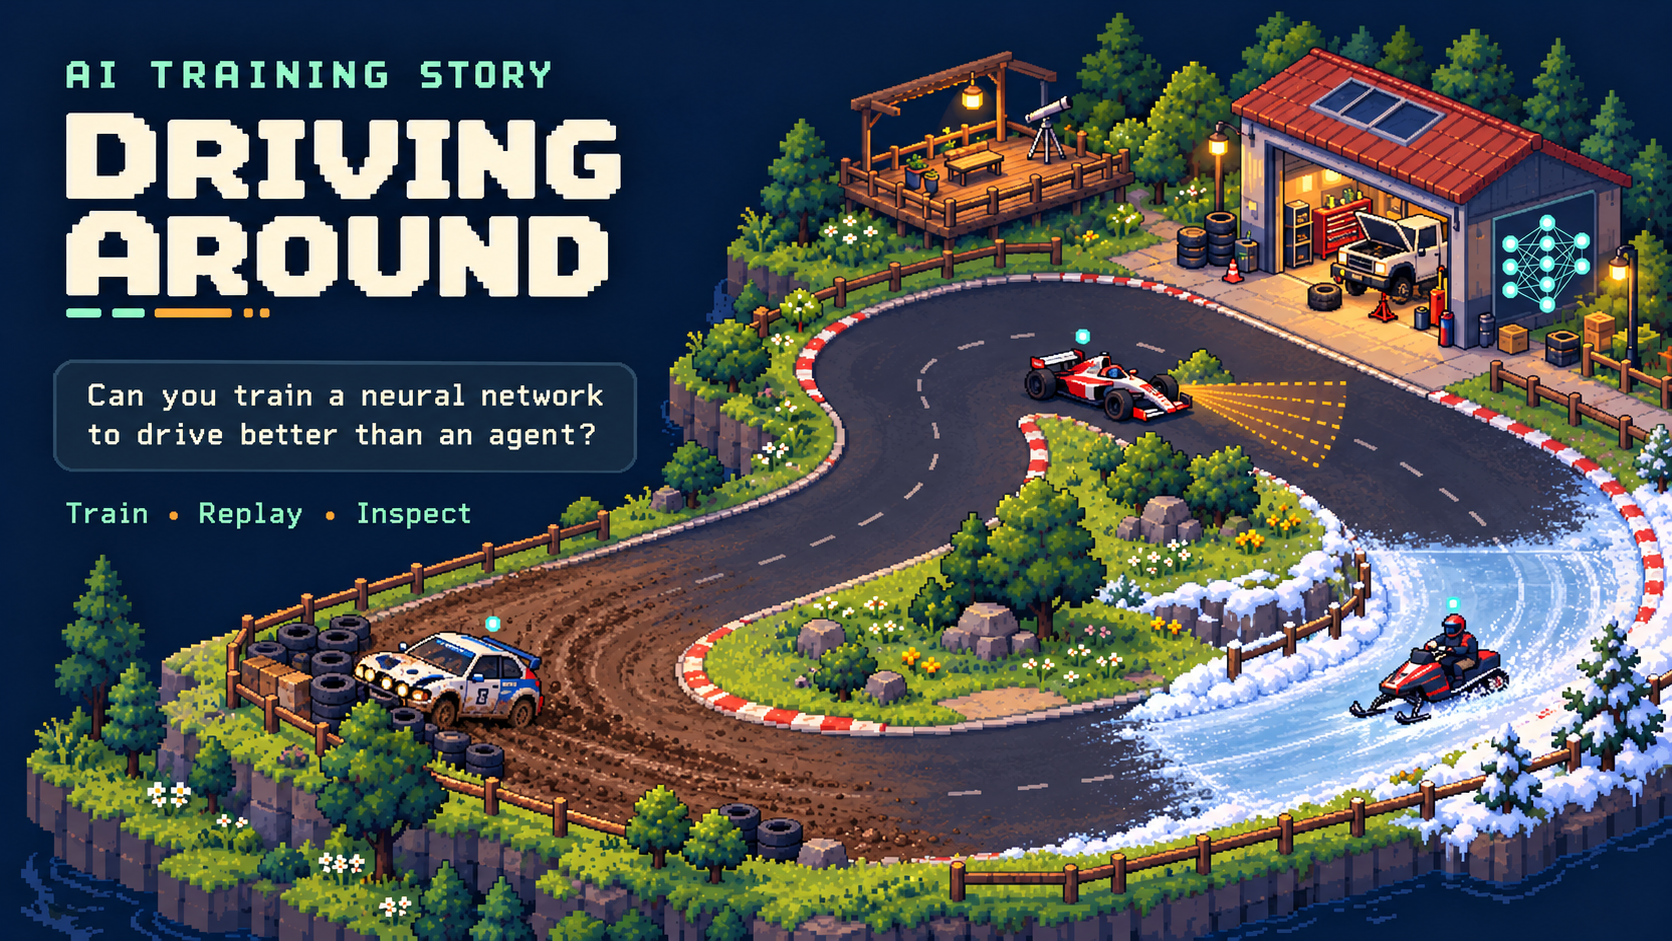
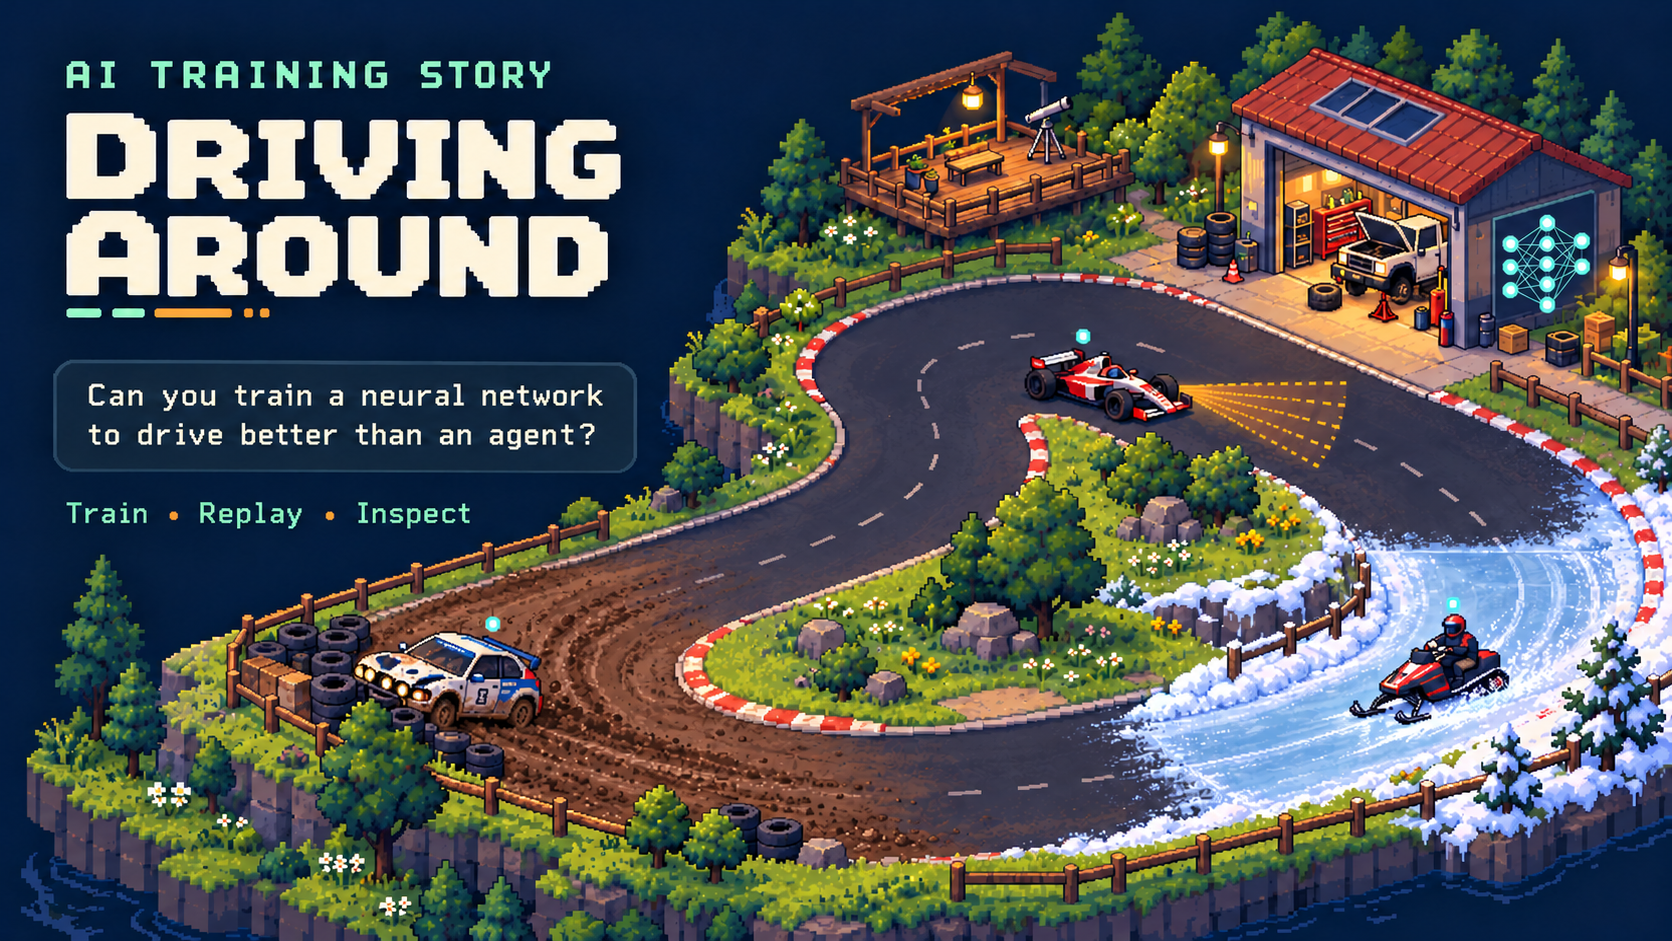
Clear the stray tree from the Driving Around road [skip ci]

diff --git a/docs/media/ASSETS.md b/docs/media/ASSETS.md
@@ -4,7 +4,7 @@ The current hero and thumbnail are AI-generated editorial concept art in the est
 
 | File | Dimensions | Bytes | Role |
 | --- | --- | --- | --- |
-| `driving-around-hero.png` | 1672 × 941 | 2,450,642 | Current README hero, including the open challenge question |
+| `driving-around-hero.png` | 1672 × 941 | 2,408,276 | Current README hero, including the open challenge question |
 | `driving-around-thumbnail.jpg` | 1774 × 887 | 599,843 | Current 2:1 sharing thumbnail |
 
 The thumbnail was exported from the generated PNG as JPEG without cropping or resizing and is below 1 MB. The generated PNG originals are retained. App/repository URLs, old README anchors and prior artwork URLs are preserved. The repository social-preview setting is unchanged. No ALD simulation, training or ZeroGPU run was used to make the artwork.
@@ -25,6 +25,17 @@ Replace the identical tiny hatchbacks with FOUR distinct vehicles distributed in
 The central track remains asphalt with clear ice and dirt side sections. Keep island visually coherent and avoid cluttering the type.
 Replace the emblem on the workshop outer wall with an unmistakable layered feed-forward neural network: 3 vertical layers of round mint nodes (3 input nodes, 4 hidden nodes, 2 output nodes), fine connections only BETWEEN adjacent layers. No connected perimeter or molecule/constellation shape.
 Keep text all perfectly readable and exact. Retain the established charming miniature pixel management-game feel. This is editorial concept art; no fake gameplay window, metrics, scores, trophies, lap records, platform logos, watermark or claims of performance.
+
+### Hero road-clearance correction
+
+The final hero removes the isolated tree from the asphalt beside the Formula car. The thumbnail is unchanged. This was a built-in image-generation edit using the full hero as the target and a user-supplied close-up only to locate the obstruction. Composition, text, four vehicles, grass-island trees and workshop were visually reviewed; small generative foliage/detail differences elsewhere mean this is not a pixel-identical masked edit.
+
+Use case: precise-object-edit.
+Input image 1 is the FULL EDIT TARGET: the complete 1672 × 941 AI Training Story: Driving Around hero.
+Input image 2 is ONLY a close-up locator reference showing the unwanted tree; do NOT output that crop. Return the complete full-size landscape hero with the same composition and dimensions as image 1.
+Make ONE localized correction: remove the single small isolated green tree/bush growing out of the DARK ASPHALT immediately beside the Formula car, above/right of its front wheel and just above the amber sensor fan. In the full image this obstruction is around x=1200, y=375; in the close-up it is the small green foliage behind the car's nose. Replace the entire tree with seamless matching dark road asphalt and its existing subtle pixel texture.
+Preserve the Formula car completely, including all wheels, nose, cockpit, its mint marker and amber sensor rays. Preserve the nearby grassy island and ALL trees growing on that grass; those are intentional. Preserve all other track geometry, dirt, ice, four vehicle models, crashed Rally, Truck under repair, workshop and layered neural-network emblem, fences, lighting, pixel-art style, palette, title, question, typography, scale and framing. All existing text must remain EXACTLY unchanged. No added objects, no other edits, no crop or zoom. The sole difference should be that this one asphalt obstruction is gone and the driving lane is clear.
+
 
 ## Thumbnail
 

diff --git a/README.md b/README.md
@@ -24,7 +24,7 @@
 
 </div>
 
-![AI Training Story: Driving Around pixel concept art featuring Formula on asphalt, Rally stuck on dirt, Snowmobile on ice and a Truck under repair](docs/media/driving-around-hero.png)
+![AI Training Story: Driving Around pixel concept art featuring Formula on asphalt, Rally stuck on dirt, Snowmobile on ice and a Truck under repair](docs/media/driving-around-hero.png?v=20261023-road-clear)
 
 *AI-generated editorial concept art. The miniature campus shows four vehicle types, mixed surfaces and a training mishap; it is not a screenshot or a claim of repair, garage, campaign or progression mechanics. The current app uses a functional experiment workspace and dot-style replay.*
 
